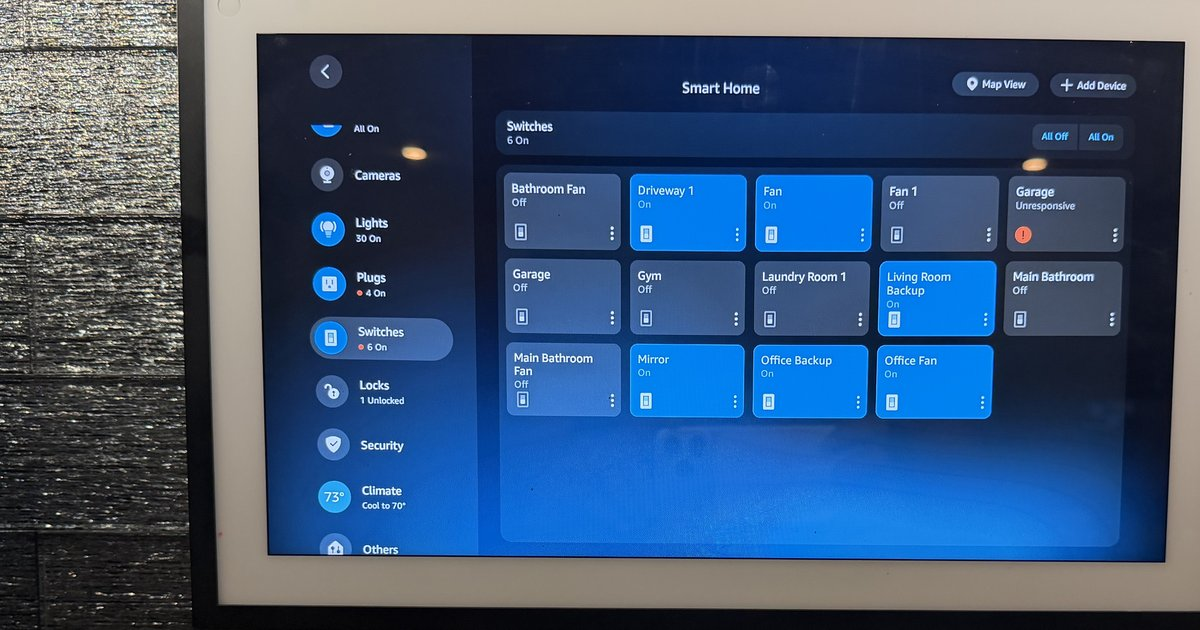
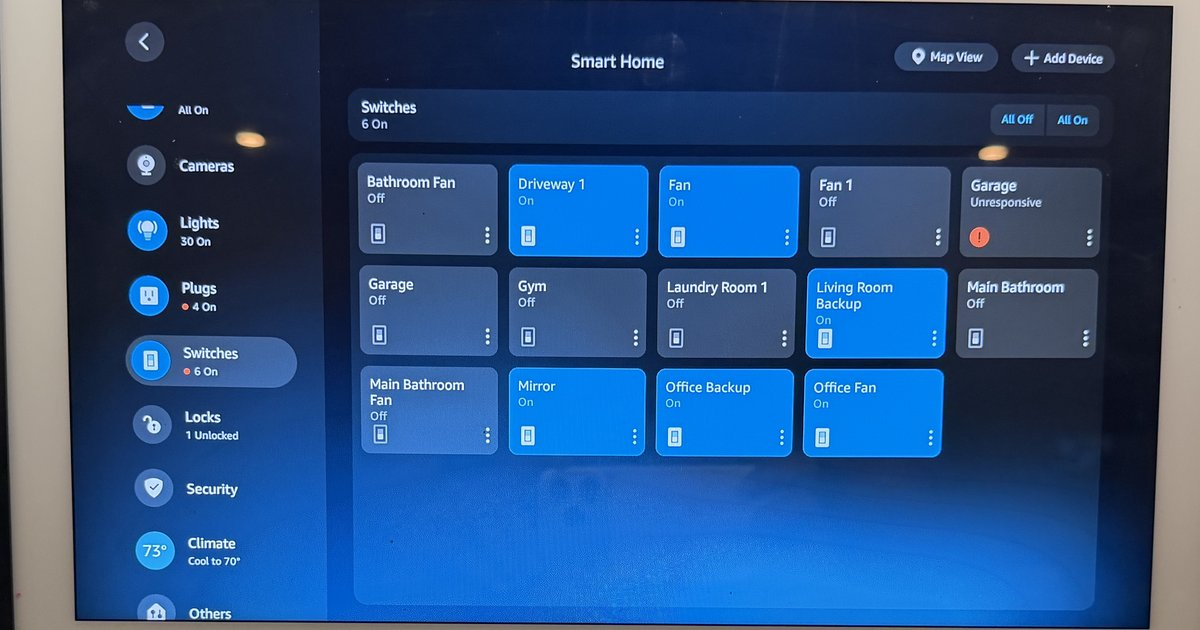
Recropped panel photo: drop the CSS crop, match the new 3:2 box
The three echo-show-15-wall-panel files were replaced with a recropped version
that centres the panel in the frame with thin equal margins, 1600x1067. The
display-side crop from b2fb8da existed only to fix the old framing, so it comes
off: aspect-ratio 5/4, object-fit cover and object-position 100% center are gone
and the img renders whole at its natural ratio. The navy #06203f pre-decode
background stays, as does figcaption's explicit --surface.

width/height on both img tags go 1090 -> 1067 so the reserved box matches the
file exactly. Measured on /free-floor-plan before the lazy image loaded: the
placeholder is already 341 x 227.4 at ratio 1.4996, so there is no shift when it
arrives.

Adds a preload for the /free-guide hero. It sits in the head ahead of the
render-blocking font stylesheet via a new headExtra slot on blogShell, so the
fetch starts during head parse instead of waiting for the body to reach the img.
Only that page: on /free-floor-plan the photo is well below the fold and stays
lazy. fetchpriority="high" on the img is unchanged.

The og jpg was recropped to the same framing under the same filename, so no meta
changes. The webp drops 212370 -> 89782 bytes.

Verified both pages at 390px: panel centred and whole, 1px edge gaps that are the
figure's own border, caption directly below with zero gap, no horizontal
overflow, /free-guide form heading at y728 so it stays inside the first screen.

Claude-Session: https://claude.ai/code/session_01MyWFAU4dah9btA88yQYErK

diff --git a/free-guide.html b/free-guide.html
@@ -28,6 +28,7 @@
 <meta property="og:image:alt" content="A wall mounted Echo Show 15 running a whole home, installed by our team">
 <meta name="twitter:card" content="summary_large_image">
 <meta name="twitter:image" content="https://infinitysmartliving.com/images/echo-show-15-wall-panel-og.jpg">
+<link rel="preload" as="image" href="/images/echo-show-15-wall-panel.webp" type="image/webp" fetchpriority="high">
 <link rel="preconnect" href="https://fonts.googleapis.com">
 <link rel="preconnect" href="https://fonts.gstatic.com" crossorigin>
 <link href="https://fonts.googleapis.com/css2?family=Sora:wght@400;500;600;700;800&family=Plus+Jakarta+Sans:wght@400;500;600;700&display=swap" rel="stylesheet">
@@ -440,13 +441,11 @@ footer ul a:hover{color:var(--cyan)}
 .land-fig-lead{margin:0 0 22px}
 .land-fig-lead + .lead-card{margin-top:0}
 /* .land-fig-panel is the Echo Show panel photo treatment, shared by both landing
-   pages. Display-only crop: in the source frame the panel sits right of centre with
-   a wide band of wall down the left (screen spans 419-1455 of 1600). A 5/4 box
-   overflows 237px horizontally, so right-aligning it trims that band off the left
-   and lands the panel centred. The .webp on disk is untouched. The dark background
+   pages. No display crop: the 1600x1067 file is itself centred with thin equal
+   margins, so the img renders whole at its natural ratio. The dark background
    stands in for the photo before it decodes, instead of an empty pale card, and
    figcaption re-asserts --surface so the caption bar stays readable. */
-.land-fig-panel img{aspect-ratio:5/4;object-fit:cover;object-position:100% center;background:#06203f}
+.land-fig-panel img{background:#06203f}
 .land-fig-panel figcaption{background:var(--surface)}
 @media(max-width:460px){.land-hero{padding:40px 0 32px}.land-main{padding:26px 16px 24px}.land-main .lead-card{padding:22px 18px}.land-fig-lead{margin-bottom:18px}}
 </style>
@@ -472,7 +471,7 @@ footer ul a:hover{color:var(--cyan)}
   <figure class="land-fig land-fig-lead land-fig-panel">
     <!-- LCP element: sits inside the first screen at 390px, so it loads eagerly at
          high priority. Do not add loading="lazy" here, it defers the largest paint. -->
-    <img src="/images/echo-show-15-wall-panel.webp" alt="A wall mounted Echo Show 15 running a whole home, installed by our team" width="1600" height="1090" fetchpriority="high" decoding="async">
+    <img src="/images/echo-show-15-wall-panel.webp" alt="A wall mounted Echo Show 15 running a whole home, installed by our team" width="1600" height="1067" fetchpriority="high" decoding="async">
     <figcaption>One Echo Show 15 on the wall, running the whole home. Installed and set up by our team.</figcaption>
   </figure>
   <div class="lead-card">

diff --git a/free-floor-plan.html b/free-floor-plan.html
@@ -440,13 +440,11 @@ footer ul a:hover{color:var(--cyan)}
 .land-fig-lead{margin:0 0 22px}
 .land-fig-lead + .lead-card{margin-top:0}
 /* .land-fig-panel is the Echo Show panel photo treatment, shared by both landing
-   pages. Display-only crop: in the source frame the panel sits right of centre with
-   a wide band of wall down the left (screen spans 419-1455 of 1600). A 5/4 box
-   overflows 237px horizontally, so right-aligning it trims that band off the left
-   and lands the panel centred. The .webp on disk is untouched. The dark background
+   pages. No display crop: the 1600x1067 file is itself centred with thin equal
+   margins, so the img renders whole at its natural ratio. The dark background
    stands in for the photo before it decodes, instead of an empty pale card, and
    figcaption re-asserts --surface so the caption bar stays readable. */
-.land-fig-panel img{aspect-ratio:5/4;object-fit:cover;object-position:100% center;background:#06203f}
+.land-fig-panel img{background:#06203f}
 .land-fig-panel figcaption{background:var(--surface)}
 @media(max-width:460px){.land-hero{padding:40px 0 32px}.land-main{padding:26px 16px 24px}.land-main .lead-card{padding:22px 18px}.land-fig-lead{margin-bottom:18px}}
 </style>
@@ -523,7 +521,7 @@ footer ul a:hover{color:var(--cyan)}
   <!-- Proof photo, deliberately below the form and the checkmarks on this page.
        Well under the fold, so it stays lazy: unlike /free-guide this is not the LCP. -->
   <figure class="land-fig land-fig-panel">
-    <img src="/images/echo-show-15-wall-panel.webp" alt="A wall mounted Echo Show 15 running a whole home, installed by our team" width="1600" height="1090" loading="lazy" decoding="async">
+    <img src="/images/echo-show-15-wall-panel.webp" alt="A wall mounted Echo Show 15 running a whole home, installed by our team" width="1600" height="1067" loading="lazy" decoding="async">
     <figcaption>A whole home running from one wall panel, installed by our team. Your free floor plan maps what fits your rooms.</figcaption>
   </figure>
 </div>

diff --git a/consult-booked.html b/consult-booked.html
@@ -441,13 +441,11 @@ footer ul a:hover{color:var(--cyan)}
 .land-fig-lead{margin:0 0 22px}
 .land-fig-lead + .lead-card{margin-top:0}
 /* .land-fig-panel is the Echo Show panel photo treatment, shared by both landing
-   pages. Display-only crop: in the source frame the panel sits right of centre with
-   a wide band of wall down the left (screen spans 419-1455 of 1600). A 5/4 box
-   overflows 237px horizontally, so right-aligning it trims that band off the left
-   and lands the panel centred. The .webp on disk is untouched. The dark background
+   pages. No display crop: the 1600x1067 file is itself centred with thin equal
+   margins, so the img renders whole at its natural ratio. The dark background
    stands in for the photo before it decodes, instead of an empty pale card, and
    figcaption re-asserts --surface so the caption bar stays readable. */
-.land-fig-panel img{aspect-ratio:5/4;object-fit:cover;object-position:100% center;background:#06203f}
+.land-fig-panel img{background:#06203f}
 .land-fig-panel figcaption{background:var(--surface)}
 @media(max-width:460px){.land-hero{padding:40px 0 32px}.land-main{padding:26px 16px 24px}.land-main .lead-card{padding:22px 18px}.land-fig-lead{margin-bottom:18px}}
 </style>
